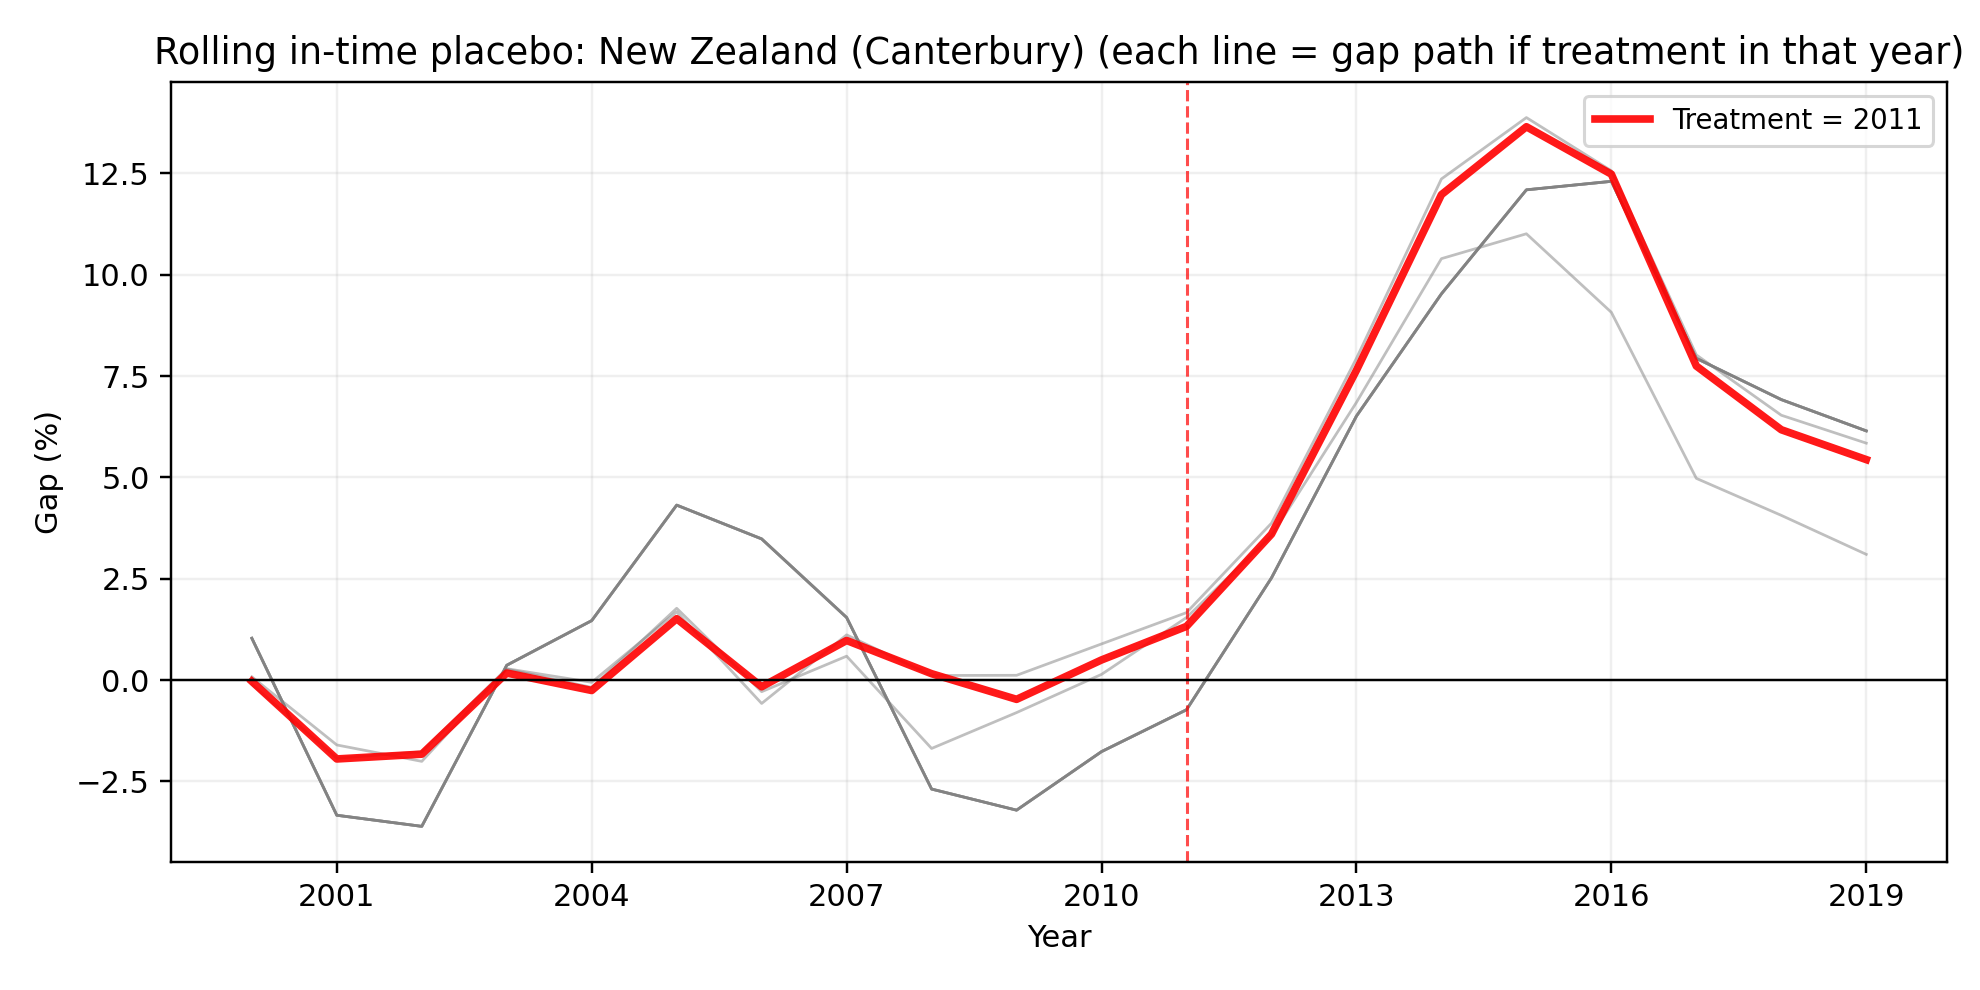
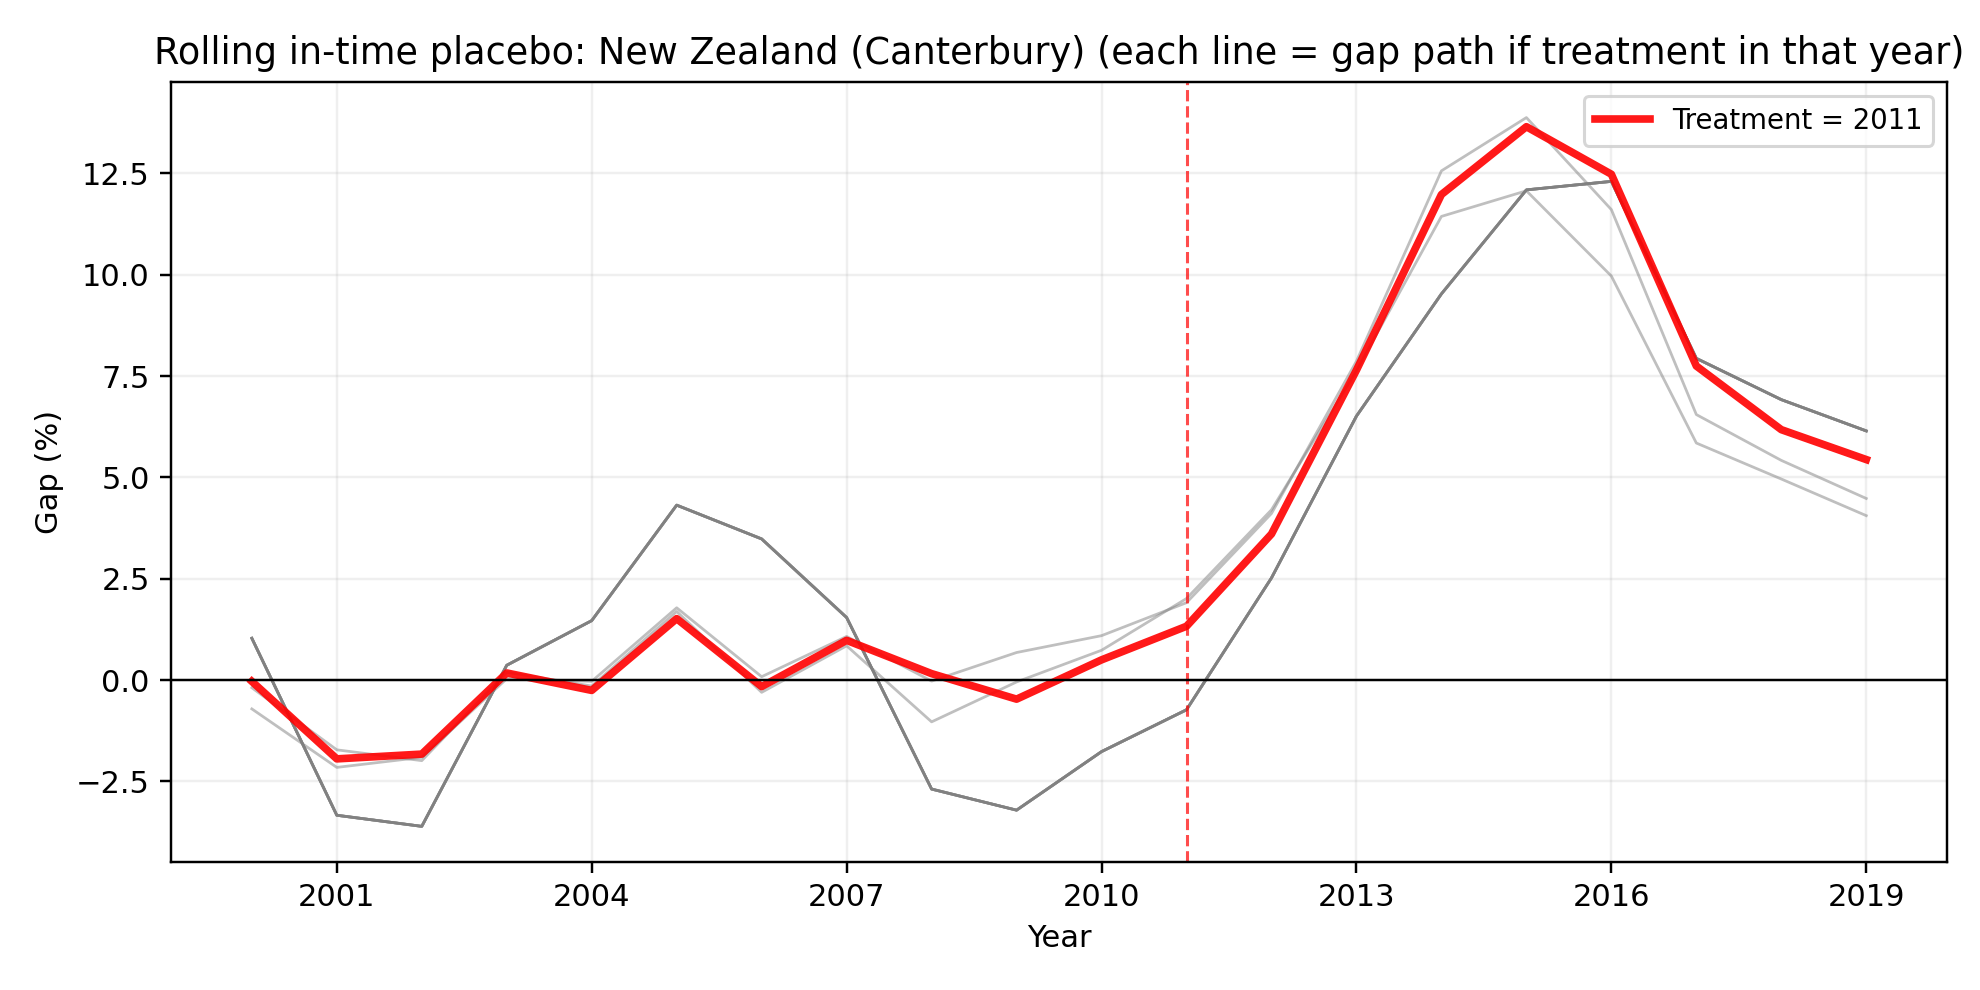
Enhance rolling in-time placebo analysis for New Zealand and Chile by adding additional years (2011-2015) to the summary CSV files. Update visualizations to reflect these changes, ensuring clarity and consistency in the results.

diff --git a/src/rolling_in_time_placebo.py b/src/rolling_in_time_placebo.py
@@ -57,8 +57,9 @@ def _run_rolling_placebo(
     gap_paths: dict[int, pd.Series] = {}
     summary_rows: list[dict] = []
 
-    # Require at least 3 pre-treatment years so SCM has enough data to fit (avoids singular/ill-conditioned fits).
-    min_pre_years = 3
+    # Require at least 2 pre-treatment years so we can include nearly all reviewer-requested placebo years.
+    min_pre_years = 2
+    optimizer_attempts = ["Nelder-Mead", "Powell", "BFGS", "L-BFGS-B"]
     for T in candidate_years:
         pre_years = [y for y in all_years if fit_start_year <= y < T]
         if len(pre_years) < min_pre_years:
@@ -67,13 +68,17 @@ def _run_rolling_placebo(
         synth = Synth()
         optim_initial = "equal" if country == "New Zealand" else "ols"
         fit_ok = False
-        for initial in (optim_initial, "ols" if optim_initial == "equal" else "equal"):
-            try:
-                synth.fit(dataprep=dataprep, optim_method="Nelder-Mead", optim_initial=initial)
-                fit_ok = True
+        initials = (optim_initial, "ols" if optim_initial == "equal" else "equal")
+        for method in optimizer_attempts:
+            for initial in initials:
+                try:
+                    synth.fit(dataprep=dataprep, optim_method=method, optim_initial=initial)
+                    fit_ok = True
+                    break
+                except Exception:
+                    continue
+            if fit_ok:
                 break
-            except Exception:
-                continue
         if not fit_ok:
             continue
         z0, z1 = synth.dataprep.make_outcome_mats(time_period=all_years)
@@ -169,10 +174,13 @@ def run_rolling_in_time_placebo(output_dir: str = FIGURES_DIR) -> tuple[pd.DataF
 
     n_nz = len(nz_paths.columns)
     n_chile = len(chile_paths.columns)
-    if n_nz < 5 or n_chile < 10:
+    expected_nz = len([y for y in nz_candidates if y - 2000 >= 2])
+    expected_chile = len([y for y in chile_candidates if y - 1990 >= 2])
+    if n_nz < expected_nz or n_chile < expected_chile:
         import warnings
         warnings.warn(
-            f"Rolling placebo: only {n_nz} paths for NZ (expected 8) and {n_chile} for Chile (expected 18). "
+            f"Rolling placebo: only {n_nz} paths for NZ (expected {expected_nz}) and "
+            f"{n_chile} for Chile (expected {expected_chile}). "
             "Some SCM fits may have failed; check for singular/optimization errors."
         )
 
@@ -195,8 +203,8 @@ def run_rolling_in_time_placebo(output_dir: str = FIGURES_DIR) -> tuple[pd.DataF
         os.path.join(output_dir, "rolling_in_time_placebo_chile.png"),
     )
 
-    # Two-panel figure for manuscript (separate y-axes: NZ ~0–10%, Chile ~-45–5%)
-    # Placebo lines: one distinct color per year (by index); actual treatment in red; colorbar with integer ticks.
+    # Two-panel figure for manuscript (separate y-axes: NZ ~0–10%, Chile ~-45–5%).
+    # Plot all placebo paths faintly, and explicitly highlight at least 5 placebo years for readability.
     fig, axes = plt.subplots(1, 2, figsize=(12, 4.8), sharey=False)
     cmap = mcm.get_cmap("viridis")
     for ax, paths_df, actual_year, title in [
@@ -206,24 +214,45 @@ def run_rolling_in_time_placebo(output_dir: str = FIGURES_DIR) -> tuple[pd.DataF
         placebo_years = sorted(c for c in paths_df.columns if c != actual_year)
         n_placebo = len(placebo_years)
         x_vals = np.asarray(paths_df.index, dtype=float)
-        # Plot placebos first (sorted), each with a distinct color by index over full colormap range.
-        for i, col in enumerate(placebo_years):
-            t = i / max(1, n_placebo - 1)  # 0 to 1 over placebo years
+
+        # 1) Draw every placebo path lightly so the complete set is retained.
+        for col in placebo_years:
+            ax.plot(
+                x_vals,
+                paths_df[col].to_numpy(),
+                color="lightgray",
+                linewidth=0.9,
+                alpha=0.45,
+                zorder=1,
+            )
+
+        # 2) Explicitly highlight at least 5 placebo paths (or all if fewer than 5 exist).
+        n_highlight = min(5, n_placebo)
+        highlighted_years = [
+            placebo_years[i] for i in np.linspace(0, max(0, n_placebo - 1), n_highlight, dtype=int)
+        ] if n_highlight > 0 else []
+        for i, col in enumerate(highlighted_years):
+            t = i / max(1, n_highlight - 1)
             ax.plot(
                 x_vals,
                 paths_df[col].to_numpy(),
                 color=cmap(t),
-                linewidth=0.9,
-                alpha=0.75,
+                linewidth=1.8,
+                alpha=0.95,
+                zorder=2,
+                label=f"Placebo = {col}",
             )
+
         # Plot actual treatment year on top.
         if actual_year in paths_df.columns:
             ax.plot(
                 x_vals,
                 paths_df[actual_year].to_numpy(),
                 color="red",
-                linewidth=2.5,
-                alpha=0.95,
+                linewidth=2.6,
+                alpha=0.98,
+                zorder=3,
+                label=f"Actual = {actual_year}",
             )
         ax.axvline(actual_year, color="red", linestyle="--", linewidth=1, alpha=0.7)
         ax.axhline(0, color="black", linewidth=0.8)
@@ -232,16 +261,19 @@ def run_rolling_in_time_placebo(output_dir: str = FIGURES_DIR) -> tuple[pd.DataF
         ax.grid(alpha=0.2)
         ax.xaxis.set_major_locator(mtick.MaxNLocator(integer=True))
         ax.xaxis.set_major_formatter(mtick.FormatStrFormatter("%d"))
-        if n_placebo > 0:
-            norm = mcolors.Normalize(vmin=min(placebo_years), vmax=max(placebo_years))
-            sm = mcm.ScalarMappable(norm=norm, cmap=cmap)
-            sm.set_array([])
-            cbar = fig.colorbar(sm, ax=ax, shrink=0.7, aspect=25)
-            cbar.set_label("Placebo treatment year", fontsize=8)
-            cbar.set_ticks(placebo_years)
-            cbar.ax.yaxis.set_major_formatter(mtick.FormatStrFormatter("%d"))
+        ax.text(
+            0.02,
+            0.98,
+            f"Placebo lines in fit: {n_placebo}",
+            transform=ax.transAxes,
+            va="top",
+            ha="left",
+            fontsize=8,
+            bbox={"boxstyle": "round,pad=0.2", "fc": "white", "ec": "gray", "alpha": 0.8},
+        )
+        ax.legend(loc="lower left", fontsize=7, frameon=True)
     axes[0].set_ylabel("Gap (%)")
-    fig.suptitle("Rolling in-time placebo: gap path by candidate treatment year (colorbar) vs actual treatment year (red)")
+    fig.suptitle("Rolling in-time placebo: all candidate paths (gray), highlighted placebos (color), actual treatment (red)")
     fig.tight_layout(rect=(0, 0, 1, 0.96))
     fig.savefig(os.path.join(output_dir, "rolling_in_time_placebo_paths.png"), dpi=220)
     plt.close(fig)
